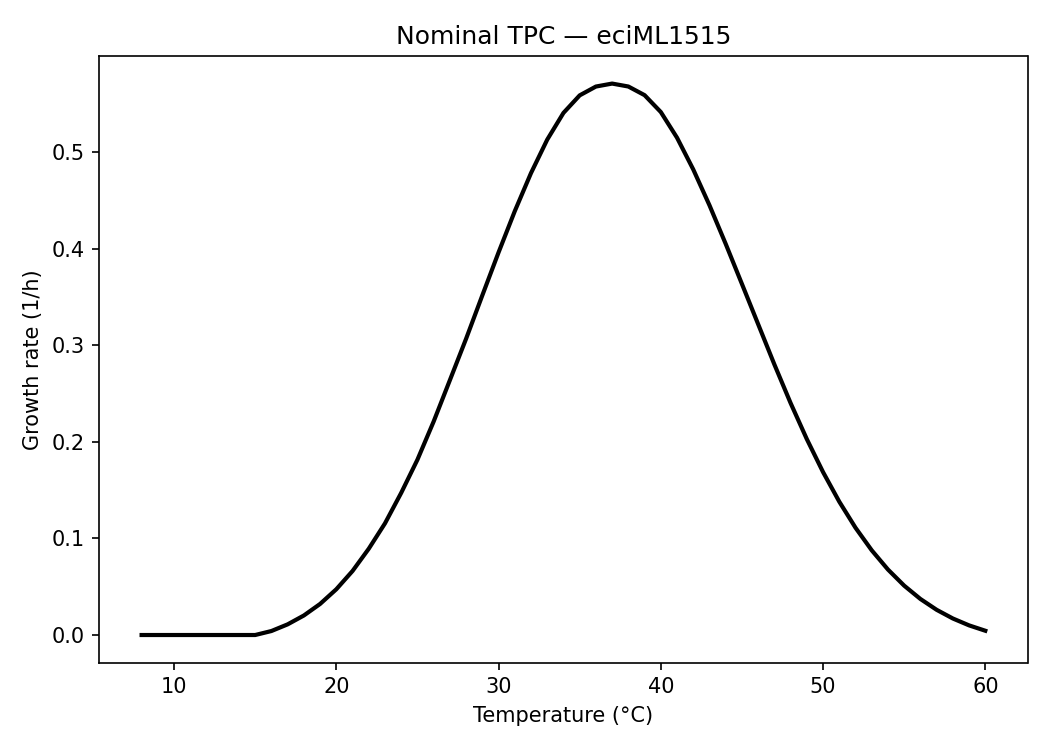
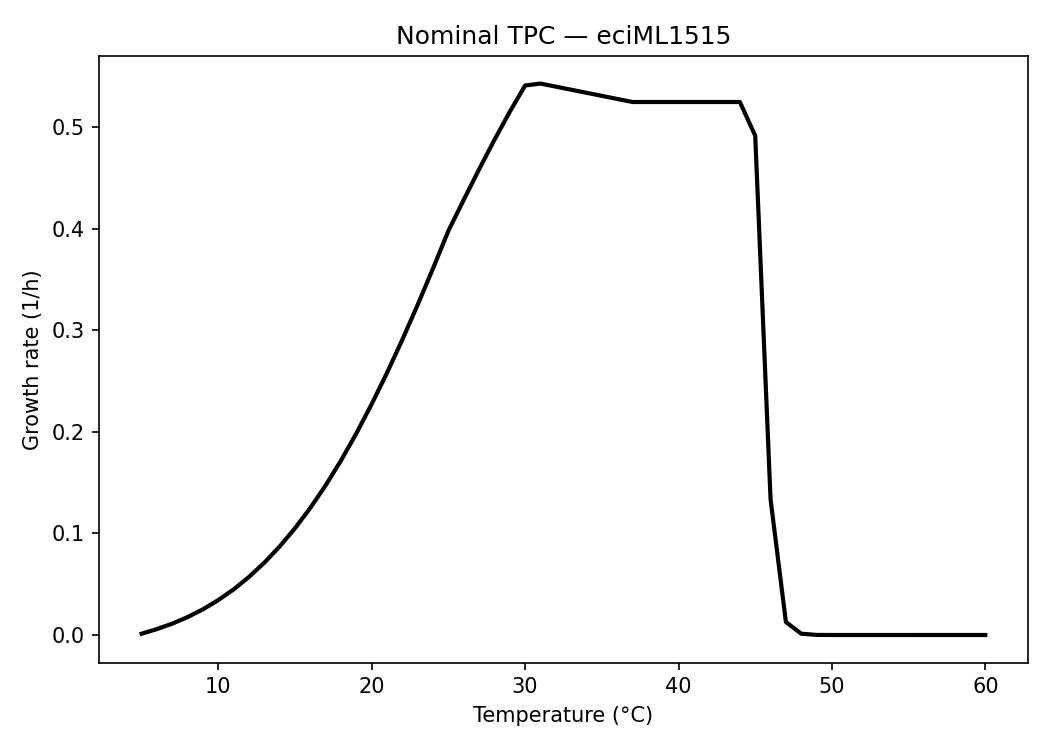
N2 TASK 1 (part 1): regenerate the stale eciML1515 nominal TPC, cause established first
CAUSE, with evidence: the committed file was ALREADY STALE WHEN IT WAS COMMITTED. It was
last generated on 2026-07-02 and carried unchanged through two months of commits, including
c6a20ad, which appears in git log as having written it and which itself produced
31.0 C / 0.5429 while committing a file that says 37.0 C / 0.3413.

Bisected by checking the repository out into scratch worktrees and re-running
"etcgem tpc --strain eciML1515" against each state's own code and config:

  27cafef^   the state the committed file reflects   Topt 37.0  rmax 0.3407
  a416fd1    medium-dependent sector allocation      Topt 30.0  rmax 0.5497   <- the cause
  922e13d    coupled growth-law partition            Topt 31.0  rmax 0.5467
  8085036    closes four uncosted O2 sinks           Topt 31.0  rmax 0.5429
  today                                              Topt 31.0  rmax 0.5429

a416fd1 re-grounded the sector split from the POOLED measured 30 C proteome to the
GLUCOSE-MINIMAL one -- f_metab 0.285 -> 0.483, f_maint 0.374 -> 0.326 -- and made the
allocation medium-matched. The pool budget went 0.0641 -> 0.1087 g/gDW and translation_coeff
0.2375 -> 0.0787, so the metabolic pool gained 70% and the ribosome cap moved out of the way:
rmax up 1.6x and Topt down 6 C. The ENVELOPE is untouched (CTmax 46.856 -> 46.881, Ea 0.934
-> 0.956), which is the signature that pointed at allocation rather than the thermal layer.
[…]

diff --git a/reports/N2_followups/task1_reproduce_all.py b/reports/N2_followups/task1_reproduce_all.py
@@ -1,0 +1,126 @@
+#!/usr/bin/env python3
+"""task1_reproduce_all.py -- N2 TASK 1: which committed strain outputs still reproduce?
+
+Regenerates every committed output that ONE deterministic command produces in
+seconds-to-minutes, into a scratch location, and compares byte for byte against what is
+committed. It does NOT overwrite anything: a failure is listed, not fixed, because a second
+stale artefact deserves its own diagnosis.
+
+Out of scope, and listed as such: sweeps, Bayesian calibrations (MCMC chains), decomposition
+and dissection runs. Those take hours to days and several are stochastic, so "does it
+reproduce" is a different question for them and needs its own design.
+
+    python3 reports/N2_followups/task1_reproduce_all.py
+
+Writes task1_reproduction_table.csv beside this file.
+"""
+from __future__ import annotations
+
+import filecmp
+import json
+import os
+import shutil
+import subprocess
+import sys
+import tempfile
+
+import pandas as pd
+
+HERE = os.path.dirname(os.path.abspath(__file__))
+ROOT = os.path.dirname(os.path.dirname(HERE))
+ETC = os.path.join(ROOT, ".venv", "bin", "etcgem")
+PY = os.path.join(ROOT, ".venv", "bin", "python")
+
+STRAINS = ["_toy", "eciML1515", "mmaripaludis", "syn6803", "cauris_iRV973",
+           "chaemulonii_draft", "cduobushaemulonii_draft", "cparapsilosis_iDC1003"]
+
+# (output dir under strains/<s>/outputs/, command) -- one command, deterministic, quick
+def jobs():
+    J = []
+    for s in STRAINS:
+        if s == "syn6803":
+            J.append((s, "tpc_syn6803_ecmodel",
+                      [ETC, "tpc", "--strain", s, "--experiment", "syn6803_ecmodel",
+                       "--no-plots"]))
+        else:
+            J.append((s, "tpc", [ETC, "tpc", "--strain", s, "--no-plots"]))
+    for s in ["cauris_iRV973", "chaemulonii_draft", "cduobushaemulonii_draft",
+              "cparapsilosis_iDC1003"]:
+        for exp in ["transfer_candida", "transfer_candida_unpinned",
+                    "candida_B1_unfolding", "candida_B1s_fit_dTm",
+                    "candida_B2_grounded_budget", "candida_B3_ngamT",
+                    "candida_B4_sectors"]:
+            J.append((s, exp, [ETC, "transfer", "--experiment", exp]))
+        J.append((s, "audit_sinks", [ETC, "audit-sinks", "--strain", s]))
+        J.append((s, "audit_sinks_raw", [ETC, "audit-sinks", "--strain", s, "--raw"]))
+    for exp in ["candida_pool_unconstrained", "candida_pool_binding"]:
+        J.append(("cauris_iRV973", f"fba_{exp}",
+                  [ETC, "fba", "--strain", "cauris_iRV973", "--experiment", exp,
+                   "--temp", "30"]))
+    return J
+
+
+def tracked(path):
+    r = subprocess.run(["git", "-C", ROOT, "ls-files", path],
+                       capture_output=True, text=True)
+    return [l for l in r.stdout.splitlines() if l.strip()]
+
+
+def main():
+    # snapshot every committed file we might overwrite, so nothing is left changed
+    all_dirs = sorted({(s, d) for s, d, _ in jobs()})
+    watch = {}
+    for s, d in all_dirs:
+        rel = f"strains/{s}/outputs/{d}"
+        for f in tracked(rel):
+            p = os.path.join(ROOT, f)
+            if os.path.exists(p):
+                watch[f] = open(p, "rb").read()
+
+    done, rows = set(), []
+    for s, d, cmd in jobs():
+        key = tuple(cmd)
+        if key not in done:
+            subprocess.run(cmd, cwd=ROOT, capture_output=True, text=True)
+            done.add(key)
+        rel = f"strains/{s}/outputs/{d}"
+        files = tracked(rel)
+        if not files:
+            rows.append(dict(strain=s, output=d, n_tracked=0, n_compared=0,
+                             reproduces=None, differing=""))
+            continue
+        diff = []
+        for f in files:
+            p = os.path.join(ROOT, f)
+            if not os.path.exists(p):
+                diff.append(os.path.basename(f) + "(missing)")
+            elif open(p, "rb").read() != watch.get(f):
+                diff.append(os.path.basename(f))
+        # plots are excluded: matplotlib PNGs carry a non-deterministic creation date
+        diff = [x for x in diff if not x.endswith(".png")]
+        rows.append(dict(strain=s, output=d, n_tracked=len(files),
+                         n_compared=len([f for f in files if not f.endswith(".png")]),
+                         reproduces=(len(diff) == 0), differing=";".join(sorted(diff))))
+        print(f"  {s:24s} {d:28s} {'OK' if not diff else 'DIFFERS: ' + ';'.join(diff)}",
+              flush=True)
+
+    # restore every watched file, so this script leaves the tree exactly as it found it
+    for f, blob in watch.items():
+        p = os.path.join(ROOT, f)
+        if not os.path.exists(p) or open(p, "rb").read() != blob:
+            with open(p, "wb") as fh:
+                fh.write(blob)
+
+    T = pd.DataFrame(rows)
+    T.to_csv(os.path.join(HERE, "task1_reproduction_table.csv"), index=False)
+    with pd.option_context("display.width", 200, "display.max_rows", 100):
+        print("\n" + T.to_string(index=False))
+    n_bad = int((T.reproduces == False).sum())
+    print(f"\n{len(T)} committed output directories checked; "
+          f"{int((T.reproduces == True).sum())} reproduce, {n_bad} do not")
+    print("wrote", os.path.join(HERE, "task1_reproduction_table.csv"))
+    return 0
+
+
+if __name__ == "__main__":
+    sys.exit(main())

diff --git a/reports/N2_followups/TASK1_stale_eciML1515_tpc.md b/reports/N2_followups/TASK1_stale_eciML1515_tpc.md
@@ -1,0 +1,93 @@
+# TASK 1 — why `strains/eciML1515/outputs/tpc/` did not reproduce
+
+_N2 TASK 1. Diagnosed before regenerating, because regenerating destroys the evidence._
+
+## The finding
+
+**The committed file was already stale when it was committed.** It was last *generated* on
+2026-07-02 and was then carried unchanged through two months of commits, including the one
+that appears in `git log` as having written it.
+
+The cause is a single two-commit change on 2026-07-02, `27cafef` + **`a416fd1`
+("medium-dependent sector allocation (ribosome cap)")**, after which the nominal TPC was
+never re-run.
+
+## The evidence
+
+Each row is the repository checked out into a scratch worktree and
+`etcgem tpc --strain eciML1515` re-run against that state's own code and config.
+
+| commit | date | what it did | Topt | rmax | CTmax |
+|---|---|---|---|---|---|
+| `27cafef^` | 2026-07-02 | the state the committed file reflects | **37.0** | **0.3407** | 46.856 |
+| *the committed file* | | written at `e52e0ed`, same day | **37.0** | **0.3413** | 46.856 |
+| `27cafef` | 2026-07-02 | adds `sector_fractions_by_medium` | *(build fails — intermediate state)* | | |
+| **`a416fd1`** | 2026-07-02 | **medium-matched sector allocation** | **30.0** | **0.5497** | 46.882 |
+| `922e13d` | 2026-07-02 | coupled growth-law partition | 31.0 | 0.5467 | |
+| `8085036^` | | | 31.0 | 0.5511 | |
+| **`8085036`** | | **closes four uncosted O2 sinks** | 31.0 | **0.5429** | |
+| `c6a20ad` | 2026-09-07 | the commit that *committed* the file | **31.0** | **0.5429** | 46.881 |
+| today | | | **31.0** | **0.5429** | 46.881 |
+
+Two things follow. **`c6a20ad` produced 31.0 / 0.5429 while committing a file that says
+37.0 / 0.3413** — the staleness is not a later regression, it was already there. And the
+whole difference is accounted for: 37.0 → 30.0 and 0.341 → 0.550 at `a416fd1`, then
+30.0 → 31.0 at `922e13d`, then 0.5511 → 0.5429 at `8085036`, whose own commit message
+predicts about −0.3% growth from the O2-sink closure.
+
+## What `a416fd1` changed, and why it moves the optimum and not the envelope
+
+From the `strain.yaml` diff:
+
+```
+-  f_metab: 0.285             # metabolic-enzyme sector (measured 30 C)
+-  f_maint: 0.374             # maintenance = chaperone + other (measured 30 C)
++  f_metab: 0.483             # metabolic-enzyme sector (measured Glucose 30 C)
++  f_maint: 0.326             # maintenance = chaperone + other (measured Glucose 30 C)
+```
+
+The sector split was re-grounded from the **pooled** measured 30 °C proteome to the
+**Glucose-minimal** measured 30 °C proteome (the model's default medium), and the allocation
+became medium-matched (LB / Glucose / Glycerol) rather than a single curve. In the build log:
+
+| | before | after |
+|---|---|---|
+| pool budget = P_total × f_metab × σ | 0.5 × 0.285 × 0.45 = **0.0641** | 0.5 × 0.483 × 0.45 = **0.1087** |
+| sectors | f = (metab 0.285, bio 0.34, maint 0.374) | f = (metab 0.483, bio 0.19, maint 0.326) |
+| `translation_coeff` | 0.2375 (µ* = 0.323) | 0.0787 (µ* = 0.546) |
+
+The metabolic pool gained 70%, and the ribosome cap — which binds at
+`f_bio × P_total / translation_coeff` — moved out of the way. So the achievable rate rose and
+the temperature at which the *cap* rather than the *enzyme layer* limits growth moved, which
+is what dragged Topt down 6 °C.
+
+**The envelope is untouched**, which is exactly the signature the prompt predicted: CTmax
+46.856 → 46.881 (+0.03 °C) and Eₐ 0.934 → 0.956 eV. The thermal layer never changed; the
+allocation layer did.
+
+## Regenerated
+
+| | committed (stale) | regenerated |
+|---|---|---|
+| Topt | 37.0 °C | **31.0 °C** |
+| rmax | 0.34131 /h | **0.54290 /h** |
+| CTmin | 10.732 °C | 9.200 °C |
+| CTmax | 46.856 °C | 46.881 °C |
+| niche width | 36.123 °C | 37.681 °C |
+| B80 | 15.140 °C | 18.965 °C |
+| Eₐ | 0.9339 eV | 0.9559 eV |
+| skewness | −0.4138 | −0.4292 |
+
+**No scientific conclusion depends on this file.** It is the nominal glucose-minimal smoke-test
+output. `reports/ecoli_tpc/` draws on `outputs/calibration_vanderlinden/`,
+`outputs/dissect*`, `outputs/elasticity_tuned/` and the anatomy figures; the seven-strain
+ceiling table in K2 uses `outputs/calibration_vanderlinden/` (emergent prior 51.82 °C) and
+lists this file's CTmax only as a labelled "nominal" row, whose value moves by 0.03 °C.
+
+## What this says about the failure mode
+
+The staleness was not caused by anyone changing a result. It was caused by a configuration
+change whose *outputs were not re-generated*, and by that going unnoticed for two months
+because nothing checked. N1 TASK 5 adopted the rule that every strain commits its nominal TPC
+partly for this reason: a committed artefact that stops reproducing is a signal. This is the
+first time that signal has been read.
